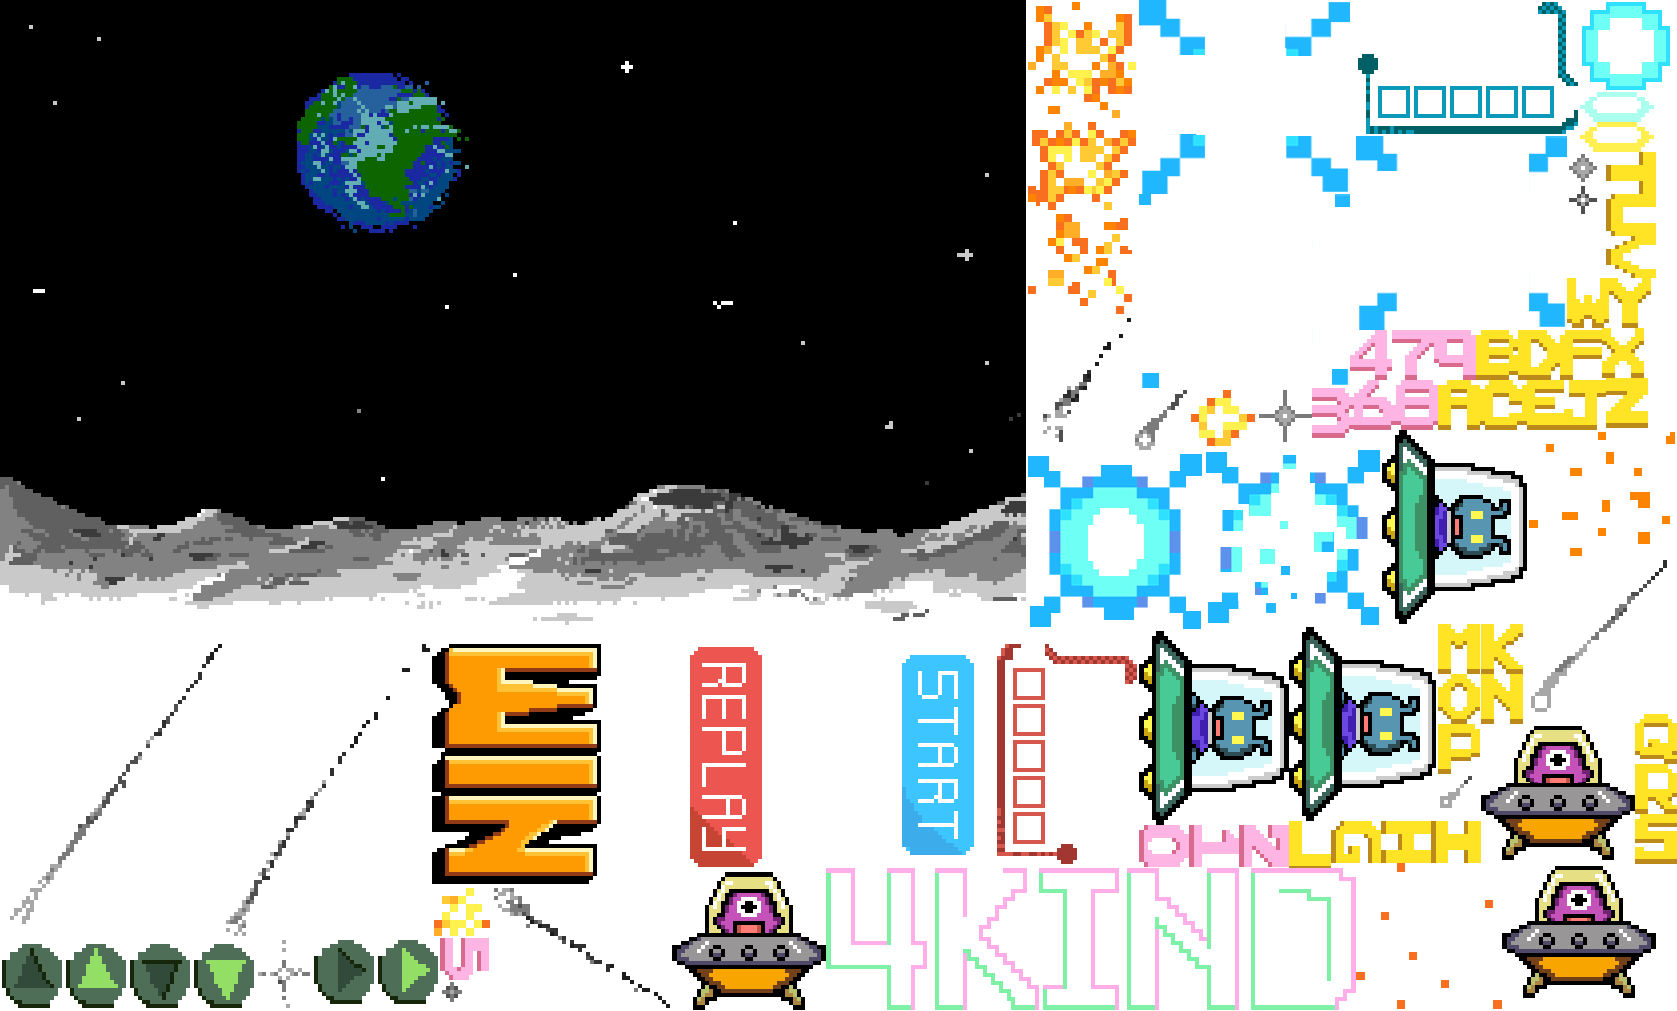
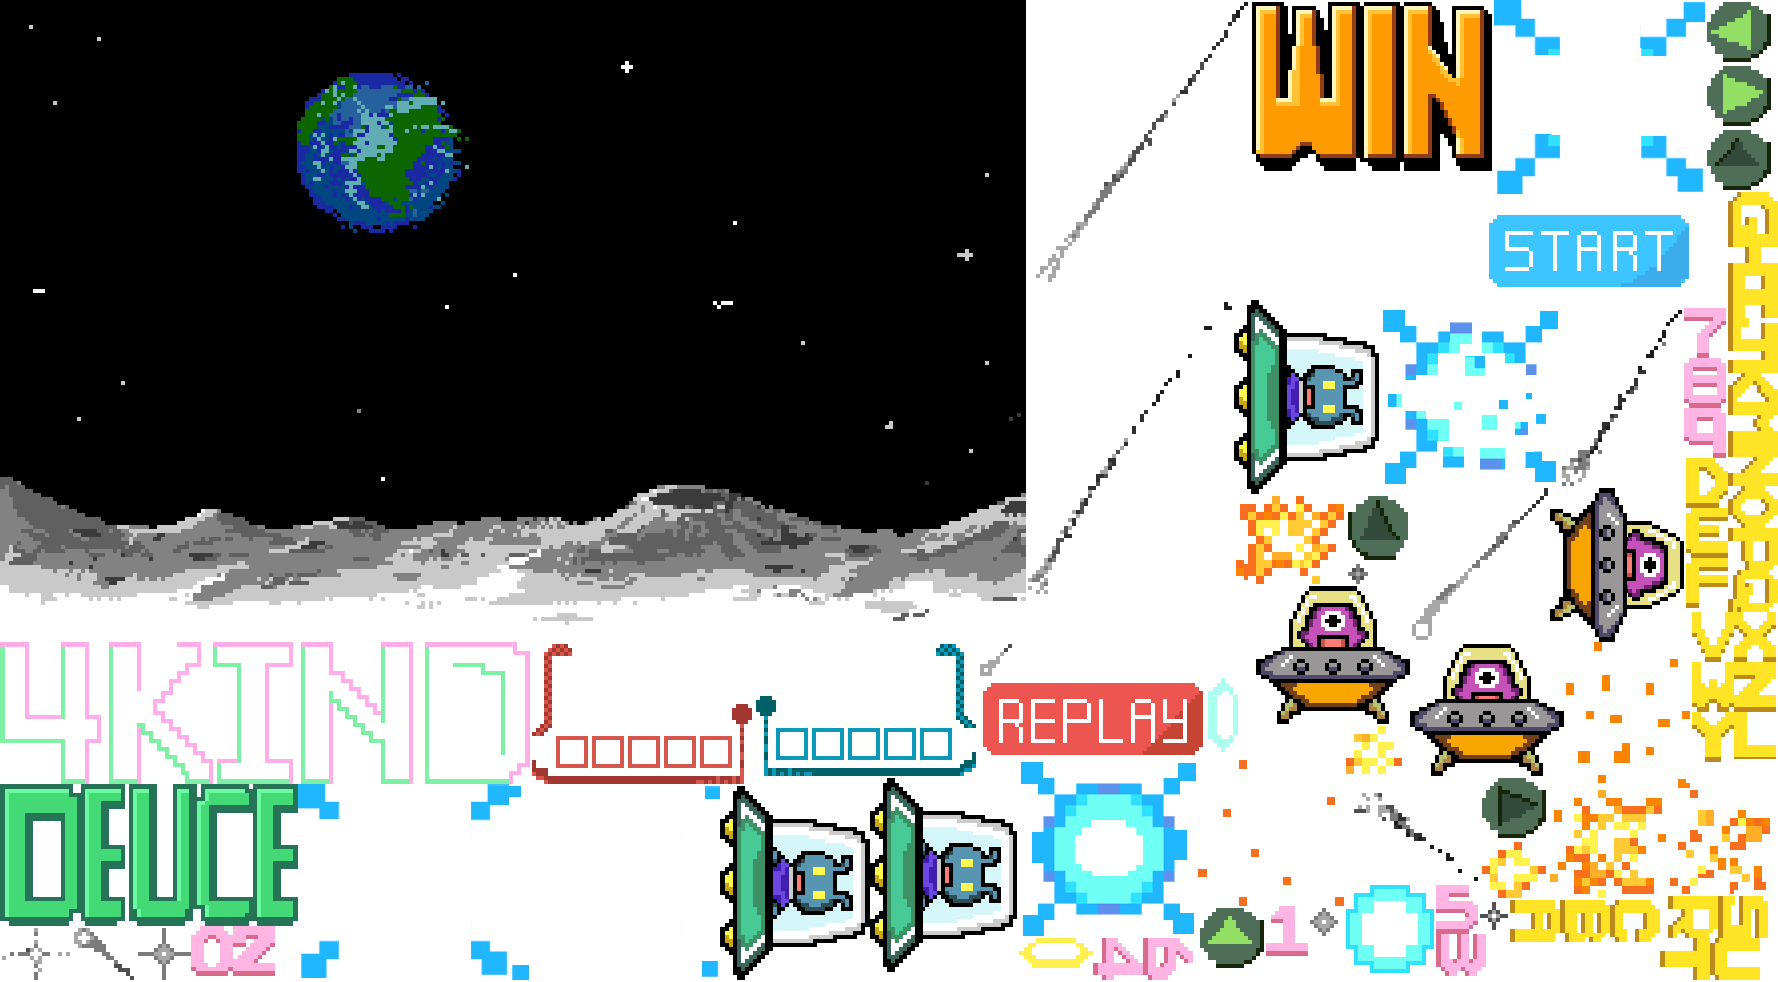
game over

diff --git a/client/english-versus.html b/client/english-versus.html
@@ -43,7 +43,6 @@
         letter-spacing: 10px;
     }
     .qrcode{
-        display: noen;
         position: fixed;
         width: 100%;
         height: 100%;
@@ -133,9 +132,10 @@
             state, letters, wordList, correctLetter, randLetters, dropLetter,
             gameSceneBegin, gameScene, gameSceneOver, welcomeContainer, id,
             timerInterval, letterDropInterval, Starbg1,
-            timer = 5, bg,
+            timer = 3, bg,
             lightA, lightA_1, lightA_2, lightA_3, isPositionIdx = 1,
-            lightB, lightB_1, lightB_2, lightB_3
+            lightB, lightB_1, lightB_2, lightB_3,
+            playerDel,logo, winlogo, playerDelEf, deuce;
 
         let fontStyle = new PIXI.TextStyle({
                 fontFamily: 'Arial',
@@ -205,6 +205,7 @@
                     Starbg1.gotoAndPlay(0);
                 }, 1300);
             };
+
             // 歡迎畫面
             welcomeContainer = new Container();
             //var buttonPlay = new PIXI.Text("Let's Play", fontStyle);
@@ -213,8 +214,11 @@
                 PIXI.Texture.fromFrame("button-start/start-2.png"),
             ];
             buttonPlay = new PIXI.extras.AnimatedSprite(PlayButtonFF);
-            buttonPlay.x = 640;
+
+            
+            buttonPlay.x = app.stage.width / 2 - buttonPlay.width /2;
             buttonPlay.y = 550;
+
             buttonPlay.interactive = true;
             buttonPlay.buttonMode = true;
             buttonPlay.on('mouseover', function(e){
@@ -225,15 +229,18 @@
             });
             buttonPlay.on('pointerdown', function(e){
                 buttonPlay.gotoAndStop(1);
-                document.querySelector(".qrcode").style.display = "flex";
+                // document.querySelector(".qrcode").style.display = "flex";
                 welcomeContainer.visible = false;
             });
             welcomeContainer.addChild(buttonPlay)
+
+
             // logo
-            let logo = new Sprite(id[`logo.png`]);
-            logo.x = 500;
+            logo = new Sprite(id[`logo.png`]);
+            logo.x = app.stage.width / 2 - logo.width /2;
             logo.y = 270;
             welcomeContainer.addChild(logo);
+
 
             gameSceneBegin.addChild(welcomeContainer);
 
@@ -259,7 +266,26 @@
             currentWordBoard.x = app.stage.width / 2 - 90;
             currentWordBoard.y = 20;
             gameScene.addChild(currentWordBoard);
+            
 
+            // win logo
+            winlogo = new Sprite(id[`ui/win.png`]);
+            deuce = new Sprite(id[`ui/deuce.png`]);
+
+             // 玩家爆炸
+             playerDelEf = [
+                PIXI.Texture.fromFrame("explosionFail/explosionFail-1.png"),
+                PIXI.Texture.fromFrame("explosionFail/explosionFail-2.png"),
+                PIXI.Texture.fromFrame("explosionFail/explosionFail-3.png"),
+                PIXI.Texture.fromFrame("explosionFail/explosionFail-4.png"),
+                PIXI.Texture.fromFrame("explosionFail/explosionFail-5.png"),
+                PIXI.Texture.fromFrame("explosionFail/explosionFail-6.png"),
+                PIXI.Texture.fromFrame("explosionFail/explosionFail-7.png"),
+                PIXI.Texture.fromFrame("explosionFail/explosionFail-8.png"),
+            ];
+            playerDel = new PIXI.extras.AnimatedSprite(playerDelEf);
+            playerDel.animationSpeed = 0.3;
+            playerDel.loop = false;
 
             // 玩家A
             let PlayerAfF = [
@@ -312,7 +338,7 @@
             playerB = new PIXI.extras.AnimatedSprite(PlayerBfF);
             playerB.alpha = 0;
             playerB.animationSpeed = 0.5;
-            playerB.x = app.stage.width - 200;
+            playerB.x = app.stage.width - playerB.width - 200;
             playerB.y = footer;
             playerB.vx = 0;
             playerB.vy = 0;
@@ -453,7 +479,31 @@
             app.ticker.add(delta => gameLoop(delta));
             WebSocketTest();
         }
+        //設定deuce字
+        function setDeuce() {
+            deuce.x = app.stage.width / 2 - deuce.width /2;
+            deuce.y = 300;
+            gameScene.addChild(deuce);
+        }
 
+        //設定win字
+        function setWin(win_player) {
+            winlogo.x = win_player.x - 25;
+            winlogo.y = win_player.y - (winlogo.height + 38);
+            gameScene.addChild(winlogo);
+        }
+        //輸的玩家
+        function playerDelLost(player) {
+            playerDel.x = player.x;
+            playerDel.y = player.y;
+            playerDel.play();
+            player.visible = false;
+            gameScene.addChild(playerDel);
+            playerDel.onComplete = ()=>{
+                playerDel.visible = false;
+                gameScene.removeChild(playerDel);
+            };
+        }
         // 遊戲預備
         function ready() {
             console.log('ready');
@@ -654,9 +704,11 @@
                 });
                 if (player.collect.length > 0) {
                     player.doneList.push(player.collect.join(''));
-                    player.collect = [];
                     console.log(player.doneList);
-                    genLetters();
+                    setTimeout(() => {
+                        player.collect = [];
+                        genLetters();
+                    }, 500);
                 }
             }
             //
@@ -711,15 +763,20 @@
 
         // 遊戲結束
         function gameover() {
+
             if (playerA.doneList.length > playerB.doneList.length) {
                 // A 獲勝
+                playerDelLost(playerB);
+                setWin(playerA);
             } else if (playerA.doneList.length < playerB.doneList.length) {
                 // B 獲勝
+                playerDelLost(playerA);
+                setWin(playerB);
             } else {
                 // 平手
+                setDeuce();
             }
             bg.alpha = 0.4;
-            // gameSceneOver.visible = true;
         }
 
         /* Helper functions */

diff --git a/client/WebSocketTest.js b/client/WebSocketTest.js
@@ -17,7 +17,11 @@ function WebSocketTest() {
         ws.onmessage = function (evt) {
             var received_msg = evt.data;
             var obj = JSON.parse(received_msg);
-            console.log(obj);
+            // console.log(obj);
+
+            ready();
+            playerA.alpha = 1;
+            playerB.alpha = 1;
 
             if(obj.type == 'playground') {
                 showPlayersQRCode(obj.playground_id);
